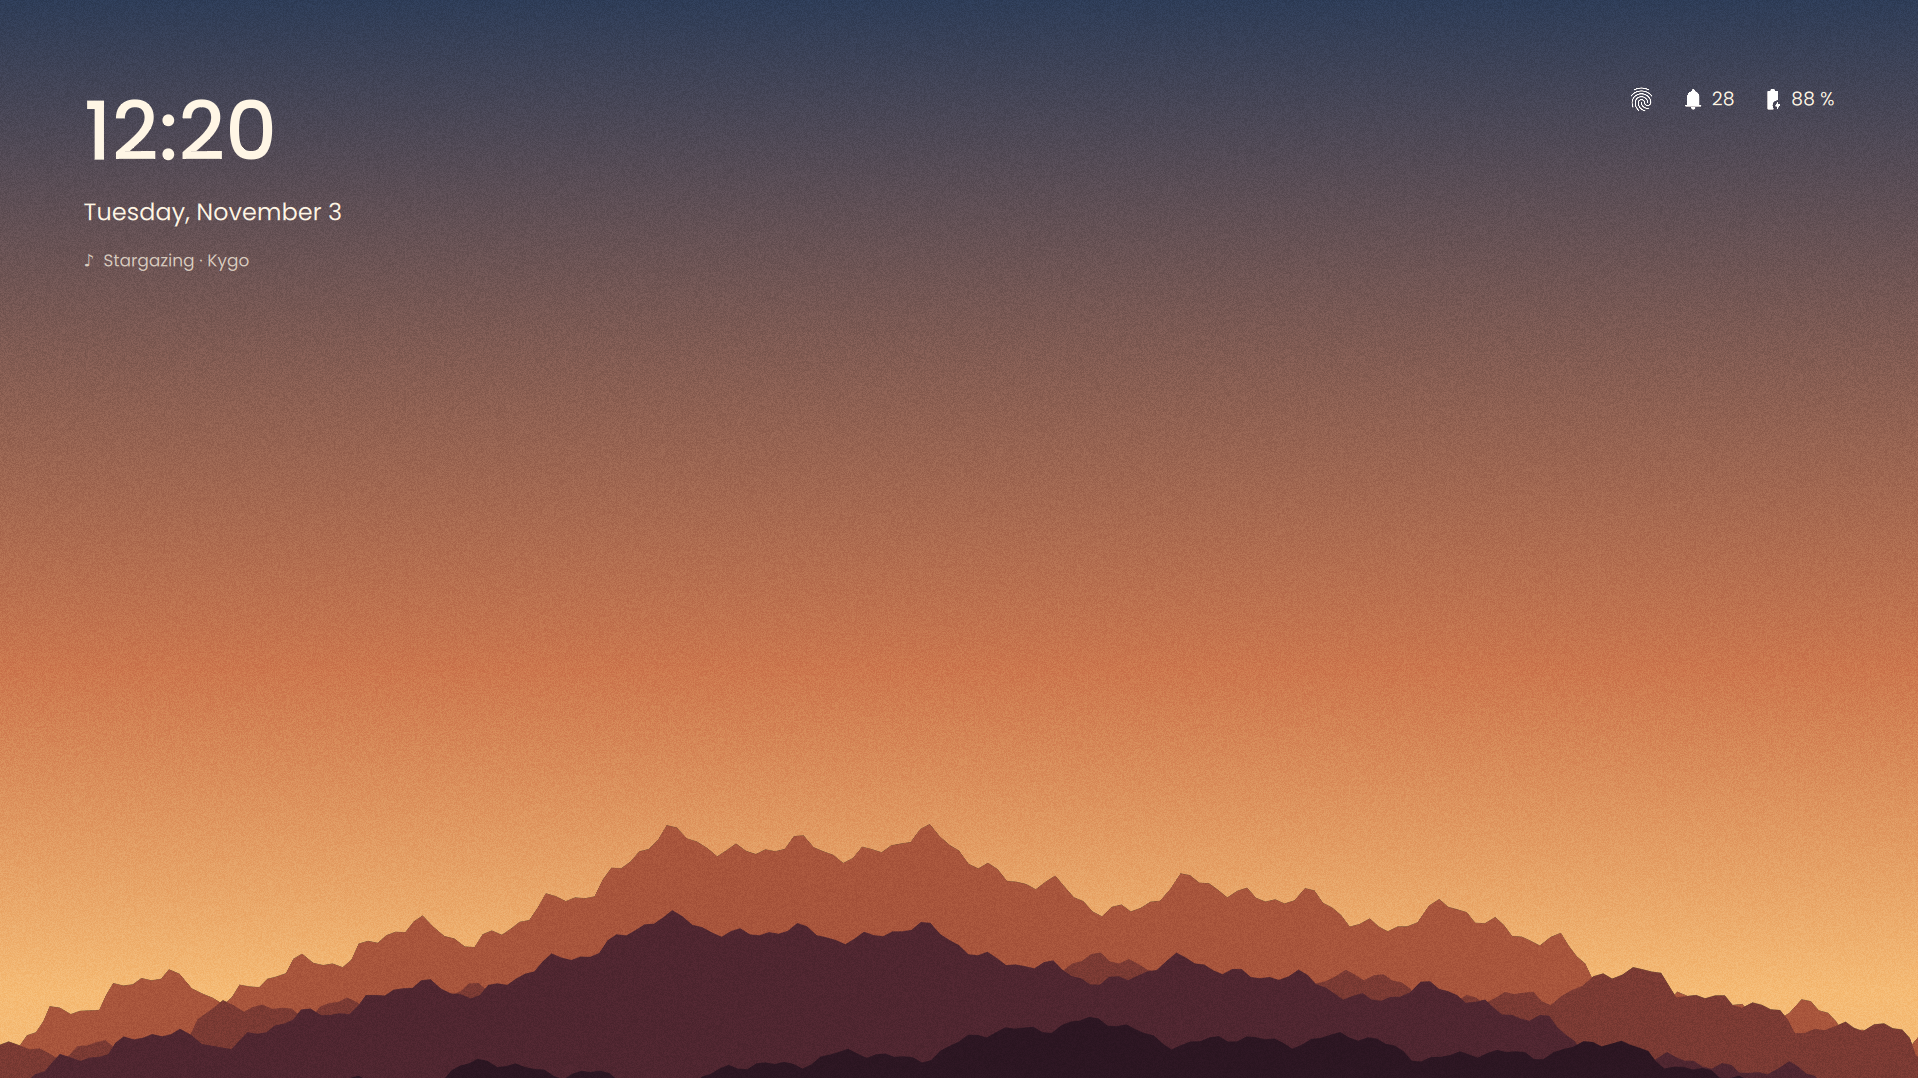
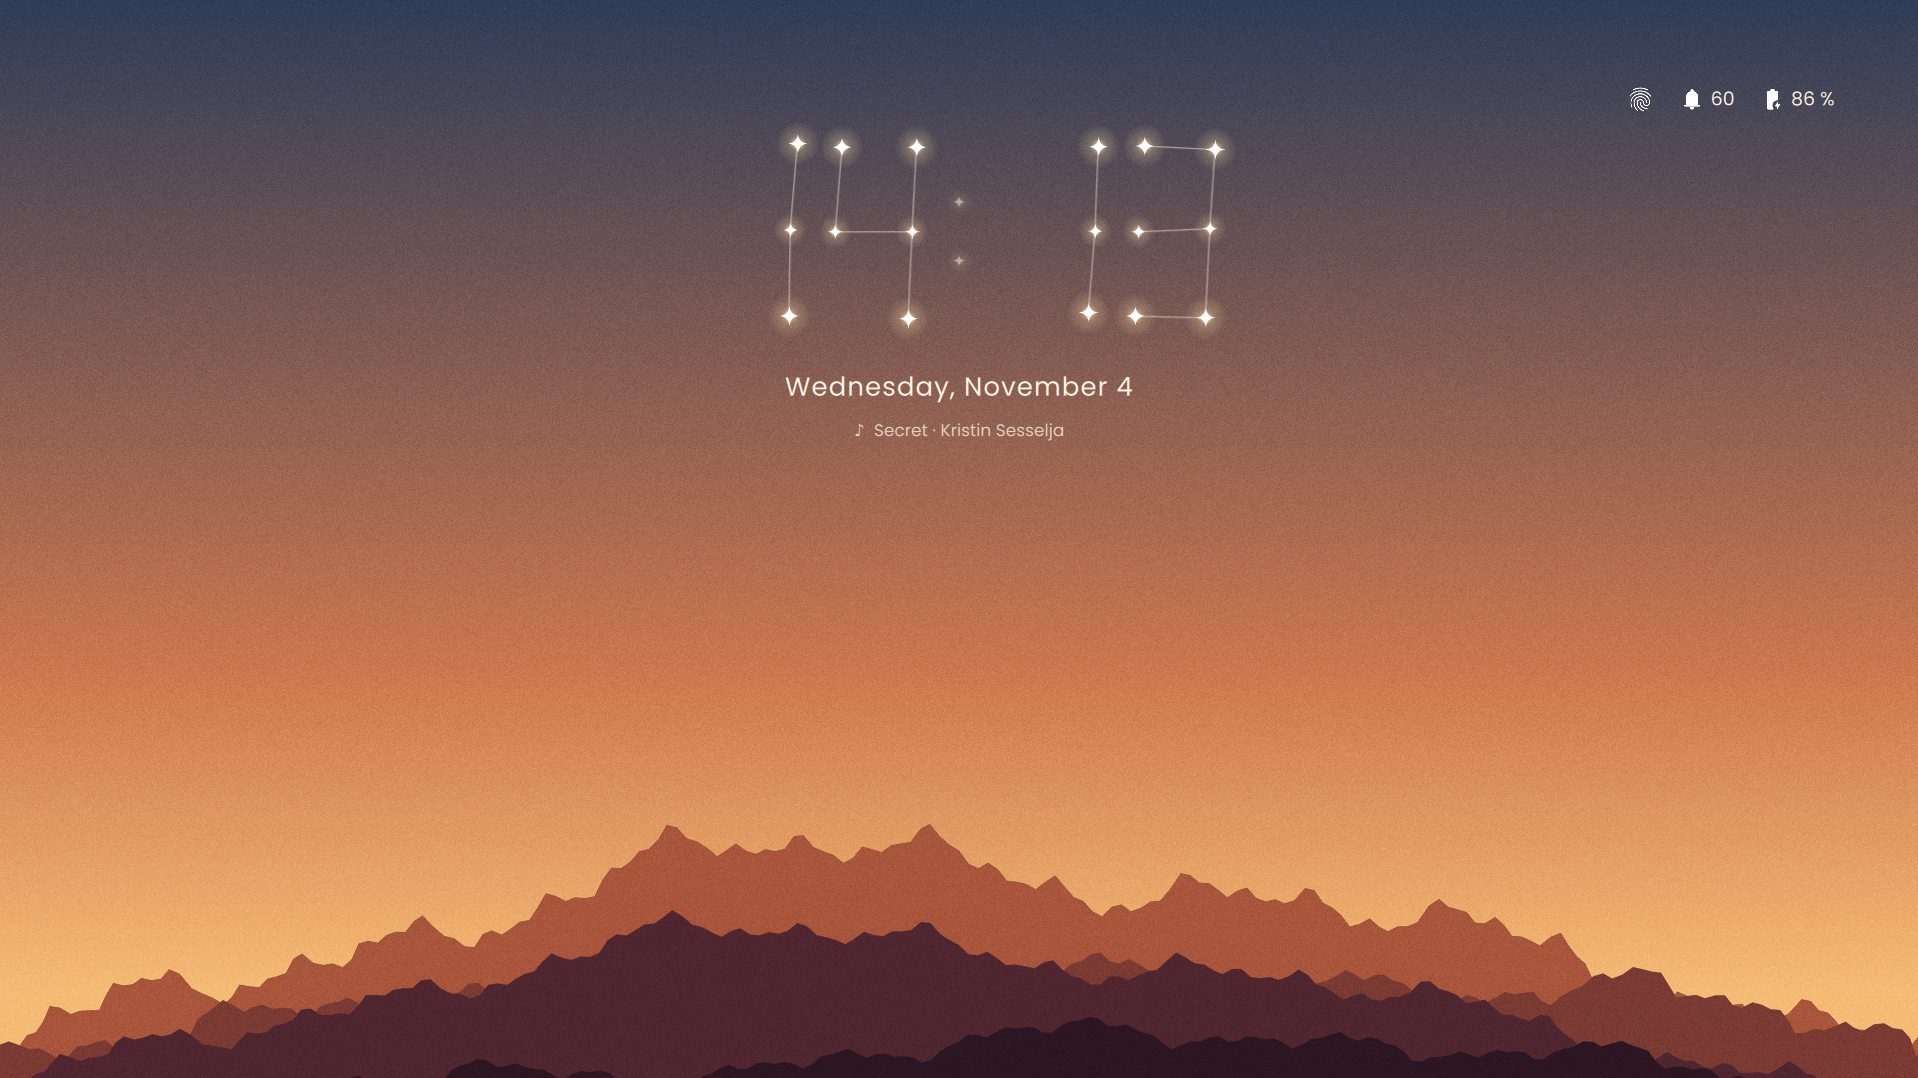
Show the new first page of the lock in the README

diff --git a/README.md b/README.md
@@ -53,7 +53,7 @@ It started as "I want my desktop to feel like my drawings" and kind of got out o
 | Orbit, every page at once | The launcher |
 | ![Settings, where you choose your world or make one from a picture](doc/Screenshots/settings.png) | ![The session menu: lock, sleep, log out, restart, shut down](doc/Screenshots/quitpage.png) |
 | Settings: choose your world | The session menu |
-| ![The lock screen as your world: the time, the song and the fingerprint reader](doc/Screenshots/Loginscreen1.png) | ![The lock screen as a story: a woman reaching for the stars](doc/Screenshots/Loginscreen2.png) |
+| ![The lock screen as your world: the time drawn as a constellation over the evening, the day, the song and the fingerprint reader](doc/Screenshots/Loginscreen1.png) | ![The lock screen as a story: a woman reaching for the stars](doc/Screenshots/Loginscreen2.png) |
 | The lock screen, as your world | …or as a story |
 
 ![Every shortcut on Super + /, ETEA's and your own](doc/Screenshots/shortcuts.png)
